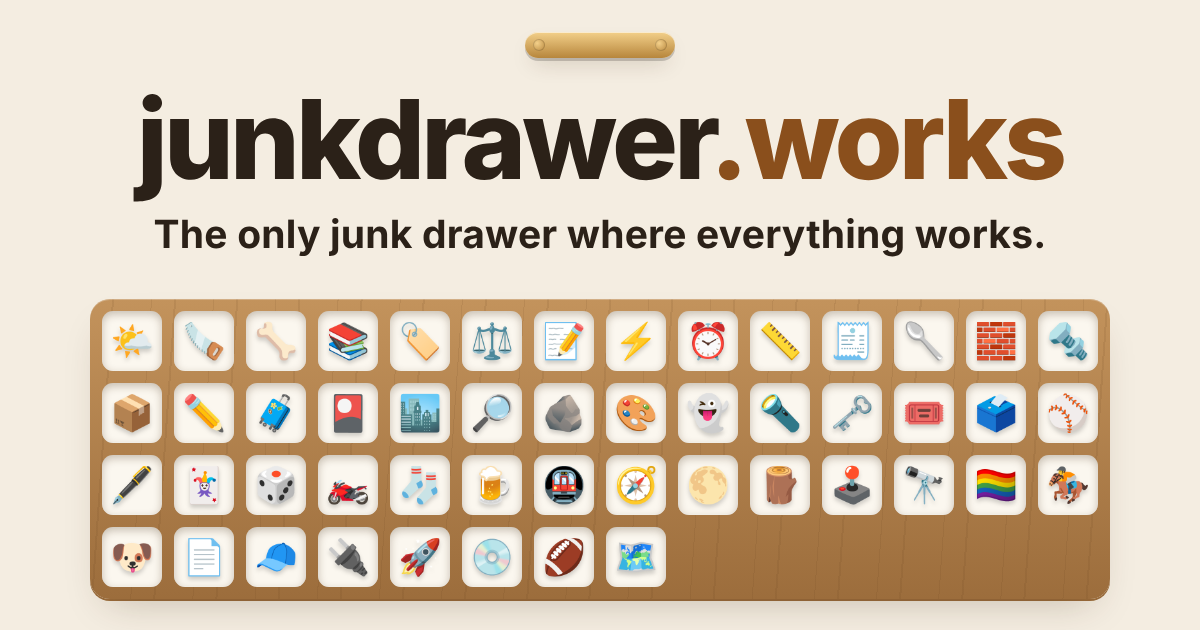
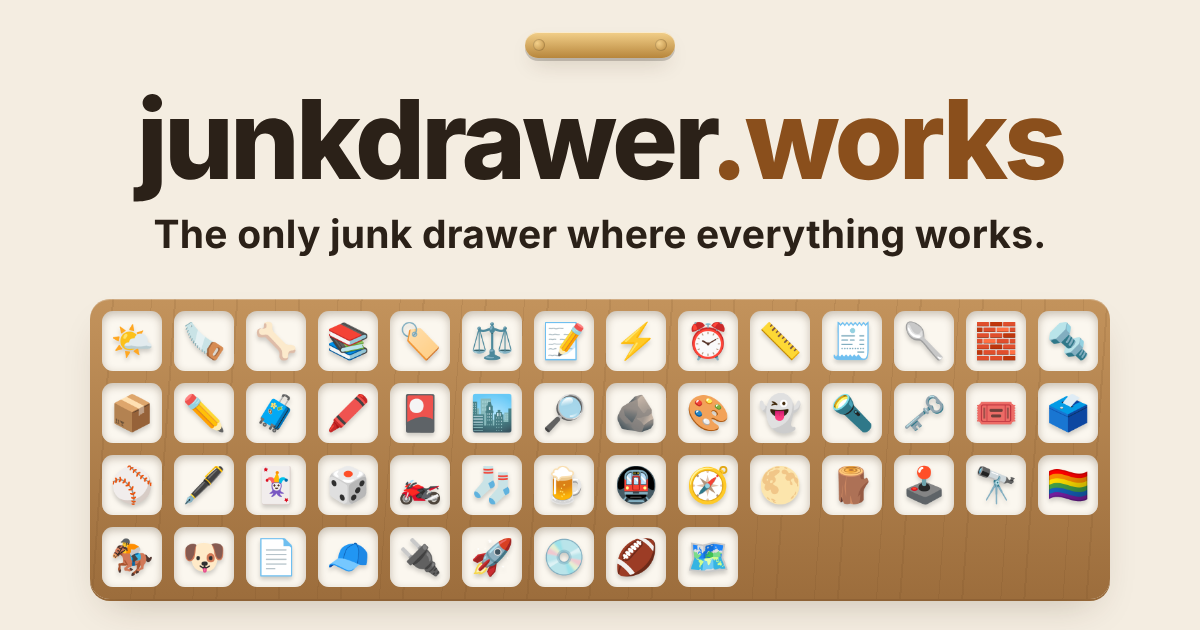
Add Clean Slate to the drawer and the privacy page
A tile at the end of Tools, linking to clean-slate.junkdrawer.works, and its Google
Drive entry on the privacy page: one SVG per board in a Clean Slate folder.

Claude-Session: https://claude.ai/code/session_01PQbLNTckw9HPRXjsPRq5Ye

diff --git a/privacy.html b/privacy.html
@@ -33,7 +33,7 @@
 <main>
   <a class="back" href="/">‹ junkdrawer.works</a>
   <h1>Privacy</h1>
-  <p class="date">Last updated October 27, 2026</p>
+  <p class="date">Last updated November 1, 2026</p>
   <p class="lede">Everything in the junk drawer runs in your browser. The projects here have no server of their own, no accounts, no analytics and no cookies. What you make stays in your browser, and a few projects can also keep a copy in your own Google Drive if you turn that on.</p>
 
   <h2>Where your things are kept</h2>
@@ -55,11 +55,12 @@
     <li><b>From Scratch</b> keeps a <code>From Scratch</code> folder with <code>From Scratch recipes.json</code>. It holds your recipes: each one’s name, whose it is, what it serves or makes, its times, ingredients, steps, notes, tags, where it came from and any note to check it against the card, with markers for recipes you removed. Photos of recipe cards, settings and timers stay on each device.</li>
     <li><b>Carry On</b> keeps a <code>Carry On</code> folder with <code>Carry On.json</code>. It holds your packing list (each bag and list of jobs with its name, icon, note and when it comes along, each thing with its bag, how many, note, when it comes along and whether it’s packed last, and your occasions), your trips (each one’s place and any stops after it, each with its country and map coordinates and the night you get there, its dates, how you’re getting there, its name if you gave one, what you ticked going and coming home, what you left off, moved, packed last, bought there or added for that trip, and the weather looked up for each place, with the coordinates it was looked up for), your home country, temperature units and laundry limit, and markers for things you removed. Whether a device hides ticked things, which bags are folded up, which way each trip is showing, and whether a device saves to Drive stay on each device.</li>
     <li><b>Backwards K</b> keeps a <code>Backwards K</code> folder with one file per game, such as <code>2026-10-24 Foxes at Comets.json</code>. Each holds the game: the team names, lineups and pitchers, the date and place, the number of innings, every pitch and play you scored, and a line or two at the top saying who played and the score. A game you delete goes to Drive’s bin, marked with when you deleted it, so your other devices delete it too. Whether a device saves to Drive stays on each device.</li>
+    <li><b>Clean Slate</b> keeps a <code>Clean Slate</code> folder with one picture per board, such as <code>Garden plan.svg</code>. Each is a picture of the board that Drive can show, with the board itself inside it: its name, colour and lines, and every line drawn (its points, pen pressure, colour and size), with markers for lines you erased. A board you delete goes to Drive’s bin, marked as deleted, so your other devices delete it too. Which board is open, where each board is scrolled to, the tools, colours and sizes, the Fingers setting and whether a device saves to Drive stay on each device.</li>
   </ul>
 
   <h2>What they do with your Google account</h2>
   <p>Connecting Google Drive asks Google for one permission, <code>drive.file</code>: “see, edit, create, and delete only the specific Google Drive files you use with this app”. The projects share one Google sign-in, called junkdrawer.works, so “this app” means these projects together. They can reach only the folders and files they made themselves, and they can’t see, open or list anything else in your Drive.</p>
-  <p>They use this access only to read their own files, merge them with the copy on your device, and write them back. Lotería, Every So Often, Parts Bin, Backwards K and Carry On also read your Google account’s name and email address, and From Scratch, Brickyard and Shelfmark its email address, to show which account they save to and to skip Google’s account chooser the next time; that stays in your browser.</p>
+  <p>They use this access only to read their own files, merge them with the copy on your device, and write them back. Lotería, Every So Often, Parts Bin, Backwards K and Carry On also read your Google account’s name and email address, and From Scratch, Brickyard, Shelfmark and Clean Slate its email address, to show which account they save to and to skip Google’s account chooser the next time; that stays in your browser.</p>
   <p>The sign-in Google gives your browser lasts about an hour and is kept in your browser, so a reload doesn’t sign you out. Projects at the same address can use it during that hour without asking again; a project with its own address keeps its own. It is never sent anywhere except to Google.</p>
   <p>The use and transfer of information received from Google APIs by junkdrawer.works projects adheres to the <a href="https://developers.google.com/terms/api-services-user-data-policy">Google API Services User Data Policy</a>, including the Limited Use requirements. Your Drive data is used only to show you your own things. It isn’t transferred to anyone, used for advertising, or read by any person.</p>
 

diff --git a/index.html b/index.html
@@ -339,6 +339,13 @@
         <p>Your packing list, sorted by the bag each thing goes in. Every trip gets a fresh copy that checks the forecast, the place and your plans: an umbrella when rain is likely, a passport and plug adapter abroad, the work bag on work trips.</p>
         <span class="go" aria-hidden="true">Open →</span>
       </a>
+      <a class="slot" href="https://clean-slate.junkdrawer.works/">
+        <span class="obj" aria-hidden="true">🖍</span>
+        <span class="label">New</span>
+        <h3>Clean Slate</h3>
+        <p>A whiteboard for your tablet and pen. Lines get thicker the harder you press, your palm is ignored, and boards can go to your own Google Drive.</p>
+        <span class="go" aria-hidden="true">Open →</span>
+      </a>
       </div>
     </section>
 
